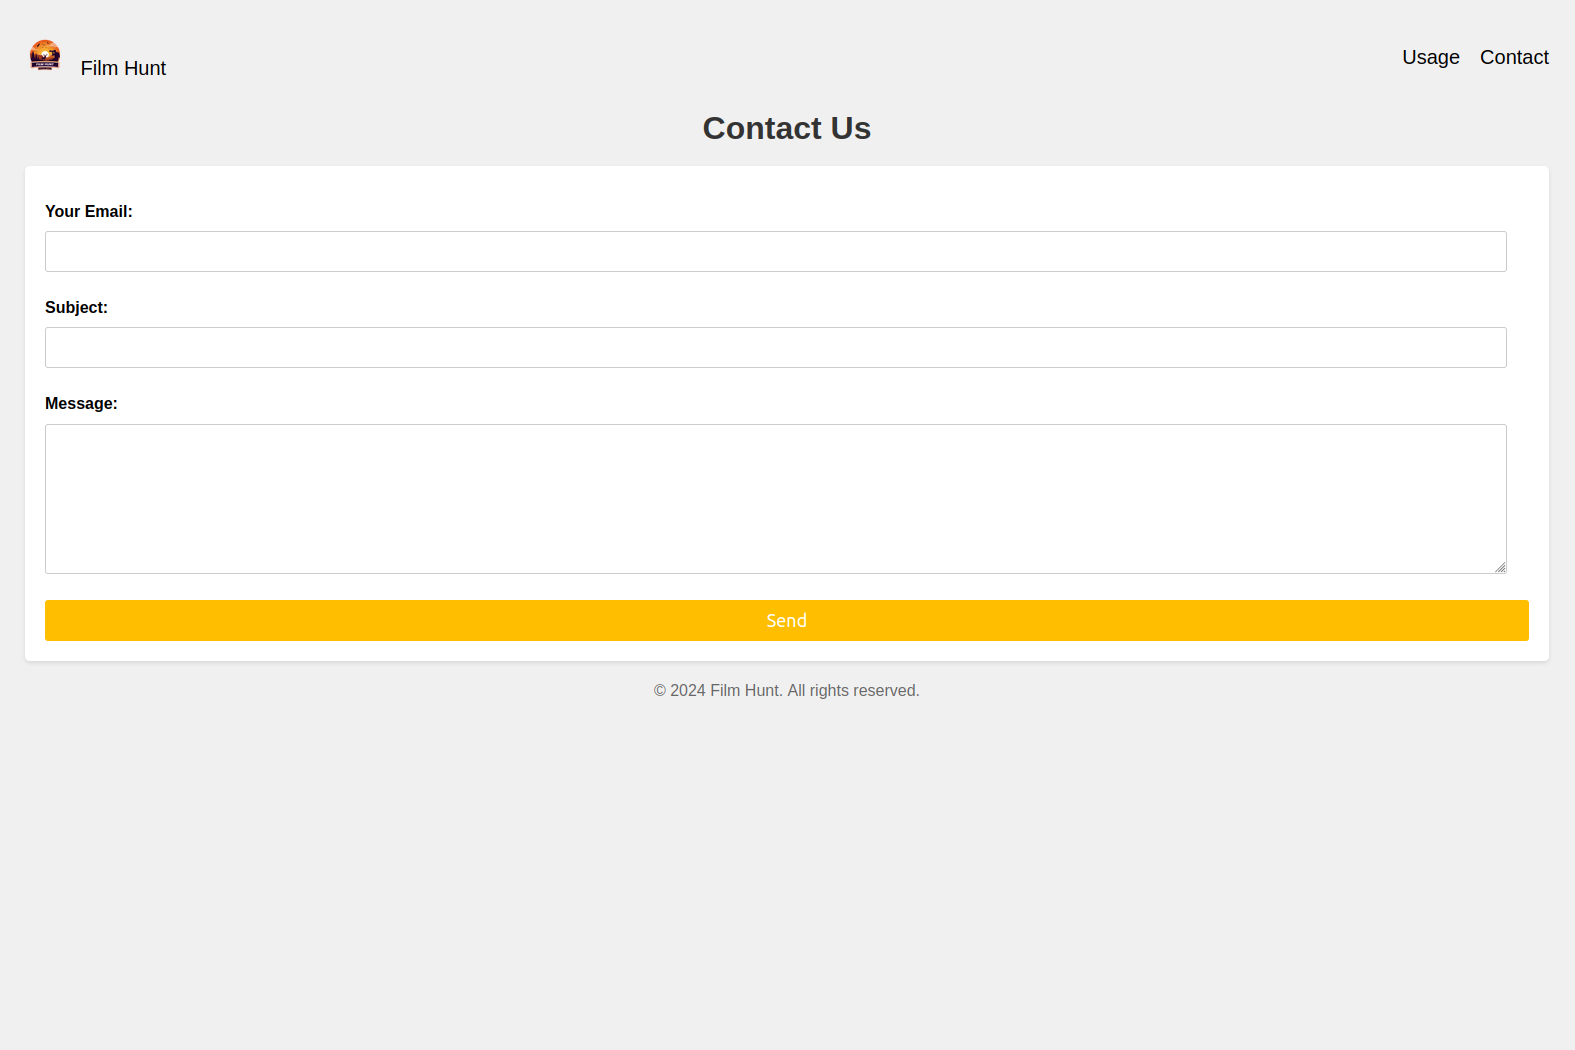
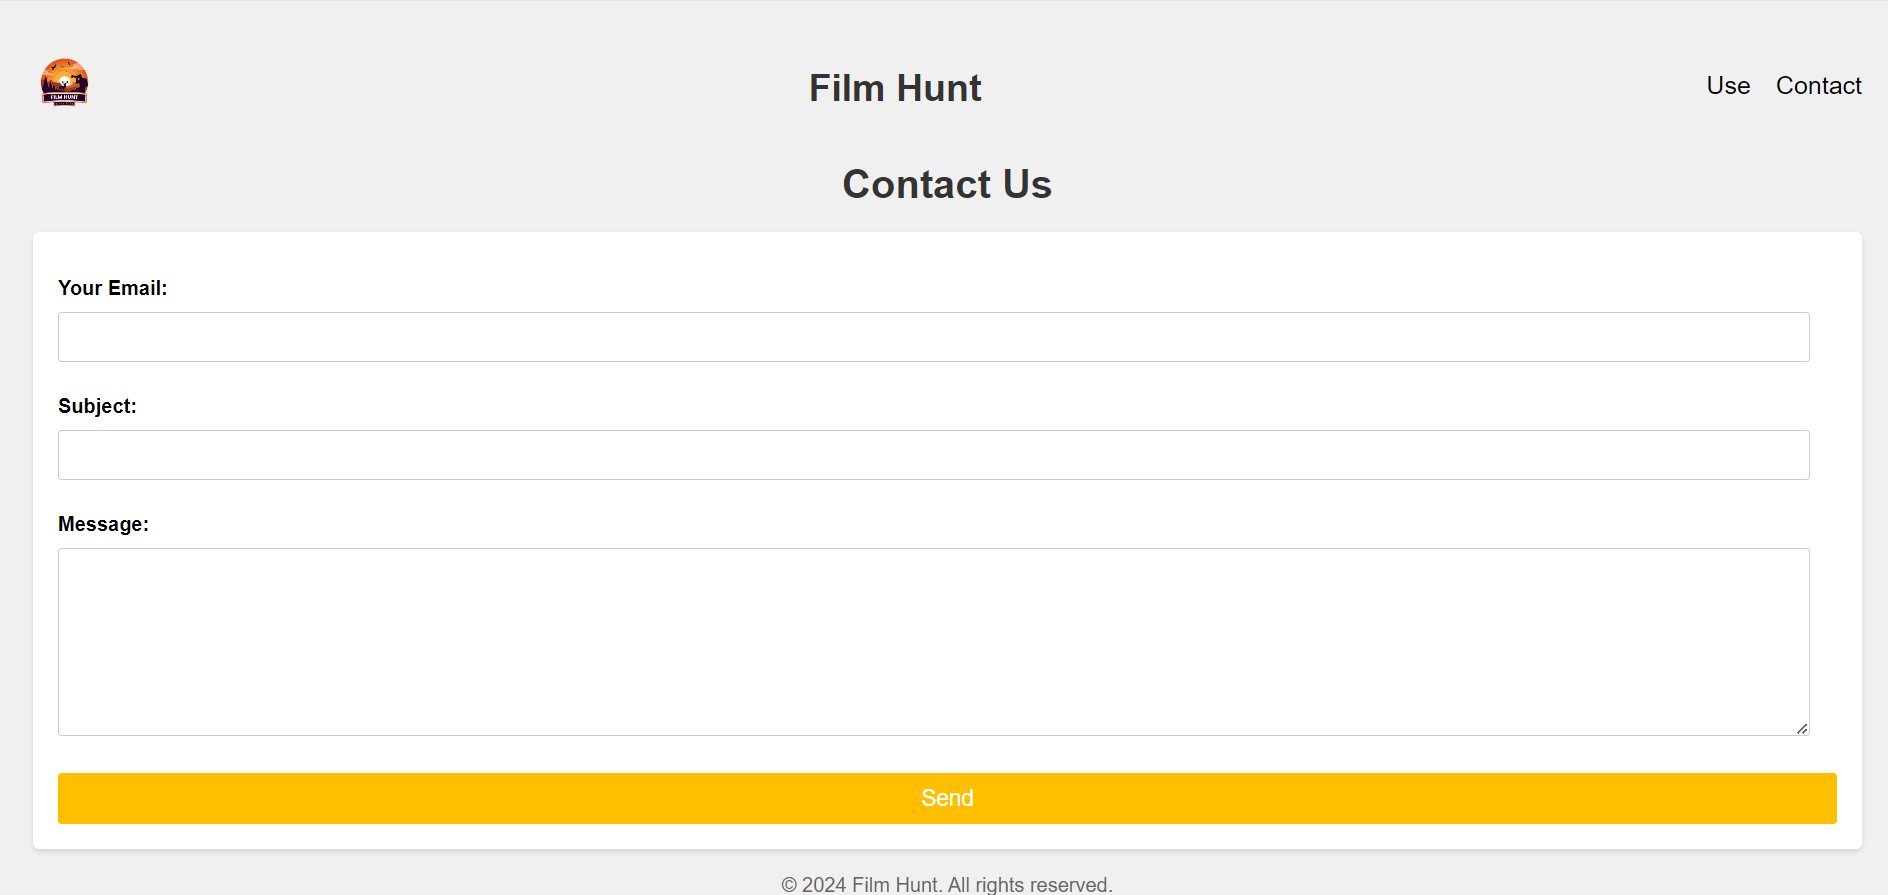
style(DFM-10): adjust responsive design

diff --git a/static/css/home.css b/static/css/home.css
@@ -6,12 +6,6 @@ body {
     padding: 20px;
 }
 
-h1 {
-    color: #333;
-    text-align: center;
-    margin-bottom: 20px;
-}
-
 form {
     margin-top: 20px;
     padding: 20px;
@@ -27,7 +21,7 @@ label {
 }
 
 input[type="text"] {
-    width: calc(100% - 22px);
+    width: 100%;
     padding: 10px;
     font-size: 16px;
     border: 1px solid #ccc;
@@ -49,4 +43,30 @@ button[type="submit"] {
 
 button[type="submit"]:hover {
     background-color: #996900;
+}
+
+@media only screen and (max-width: 600px) {
+    body {
+        padding: 10px;
+    }
+
+    h1 {
+        font-size: 1.5rem;
+    }
+
+    form {
+        padding: 15px;
+    }
+
+    label {
+        font-size: 1rem;
+    }
+
+    input[type="text"] {
+        font-size: 14px;
+    }
+
+    button[type="submit"] {
+        font-size: 16px;
+    }
 }

diff --git a/movie_app/templates/movie_app/home.html b/movie_app/templates/movie_app/home.html
@@ -12,15 +12,16 @@
         <div class="logo">
             <a href="{% url 'home' %}">
                 <img src="{% static 'images/logo.png' %}" alt="Film Hunt">
-                Film Hunt
             </a>
+        </div>
+        <div class="title">
+            <h1>Film Hunt</h1>
         </div>
         <ul>
             <li><a href="{% url 'usage' %}">Use</a></li>
             <li><a href="{% url 'contact' %}">Contact</a></li>
         </ul>
     </nav>
-    <h1>Find Your Movie</h1>
     <form method="POST">
         {% csrf_token %}
         <label for="title">Enter Movie Title:</label><br>

diff --git a/movie_app/templates/movie_app/contact.html b/movie_app/templates/movie_app/contact.html
@@ -11,11 +11,13 @@
         <div class="logo">
             <a href="{% url 'home' %}">
                 <img src="{% static 'images/logo.png' %}" alt="Film Hunt">
-                Film Hunt
             </a>
         </div>
+        <div class="title">
+            <h1>Film Hunt</h1>
+        </div>
         <ul>
-            <li><a href="{% url 'usage' %}">Usage</a></li>
+            <li><a href="{% url 'usage' %}">Use</a></li>
             <li><a href="{% url 'contact' %}">Contact</a></li>
         </ul>
     </nav>

diff --git a/movie_app/templates/movie_app/usage.html b/movie_app/templates/movie_app/usage.html
@@ -14,11 +14,13 @@
         <div class="logo">
             <a href="{% url 'home' %}">
                 <img src="{% static 'images/logo.png' %}" alt="Film Hunt">
-                Film Hunt
             </a>
         </div>
+        <div class="title">
+            <h1>Film Hunt</h1>
+        </div>
         <ul>
-            <li><a href="{% url 'usage' %}">Usage</a></li>
+            <li><a href="{% url 'usage' %}">Use</a></li>
             <li><a href="{% url 'contact' %}">Contact</a></li>
         </ul>
     </nav>

diff --git a/static/css/contact.css b/static/css/contact.css
@@ -58,3 +58,31 @@ button[type="submit"] {
 button[type="submit"]:hover {
     background-color: #996900;
 }
+
+@media only screen and (max-width: 600px) {
+    body {
+        padding: 10px;
+    }
+
+    h1 {
+        font-size: 1.5rem;
+    }
+
+    form {
+        padding: 15px;
+    }
+
+    label {
+        font-size: 1em;
+    }
+
+    input[type="text"],
+    input[type="email"],
+    textarea {
+        font-size: 14px;
+    }
+
+    button[type="submit"] {
+        font-size: 16px;
+    }
+}

diff --git a/movie_app/templates/movie_app/error.html b/movie_app/templates/movie_app/error.html
@@ -12,8 +12,10 @@
         <div class="logo">
             <a href="{% url 'home' %}">
                 <img src="{% static 'images/logo.png' %}" alt="Film Hunt">
-                Film Hunt
             </a>
+        </div>
+        <div class="title">
+            <h1>Film Hunt</h1>
         </div>
         <ul>
             <li><a href="{% url 'usage' %}">Use</a></li>

diff --git a/movie_app/templates/movie_app/movie_detail.html b/movie_app/templates/movie_app/movie_detail.html
@@ -12,8 +12,10 @@
         <div class="logo">
             <a href="{% url 'home' %}">
                 <img src="{% static 'images/logo.png' %}" alt="Film Hunt">
-                Film Hunt
             </a>
+        </div>
+        <div class="title">
+            <h1>Film Hunt</h1>
         </div>
         <ul>
             <li><a href="{% url 'usage' %}">Use</a></li>

diff --git a/static/css/nav_footer.css b/static/css/nav_footer.css
@@ -17,9 +17,15 @@ nav {
 }
 
 .logo img {
-    width: 40px;
-    height: 40px;
+    width: 50px;
+    height: 50px;
     margin-right: 10px;
+}
+
+h1 {
+    color: #333;
+    text-align: center;
+    margin-bottom: 20px;
 }
 
 nav ul {

diff --git a/static/css/movie_detail.css b/static/css/movie_detail.css
@@ -56,3 +56,13 @@ strong {
     margin-left: 10px;
     font-size: 22px;
 }
+
+@media only screen and (max-width: 600px) {
+    body {
+        padding: 10px;
+    }
+
+    h1 {
+        font-size: 1.5rem;
+    }
+}

diff --git a/static/css/error.css b/static/css/error.css
@@ -24,3 +24,13 @@ p {
 .error-message {
     text-align: center;
 }
+
+@media only screen and (max-width: 600px) {
+    body {
+        padding: 10px;
+    }
+
+    h1 {
+        font-size: 1.5rem;
+    }
+}

diff --git a/static/css/usage.css b/static/css/usage.css
@@ -27,3 +27,13 @@ p {
 ul {
     margin-bottom: 20px;
 }
+
+@media only screen and (max-width: 600px) {
+    body {
+        padding: 10px;
+    }
+
+    h1 {
+        font-size: 1.5rem;
+    }
+}
